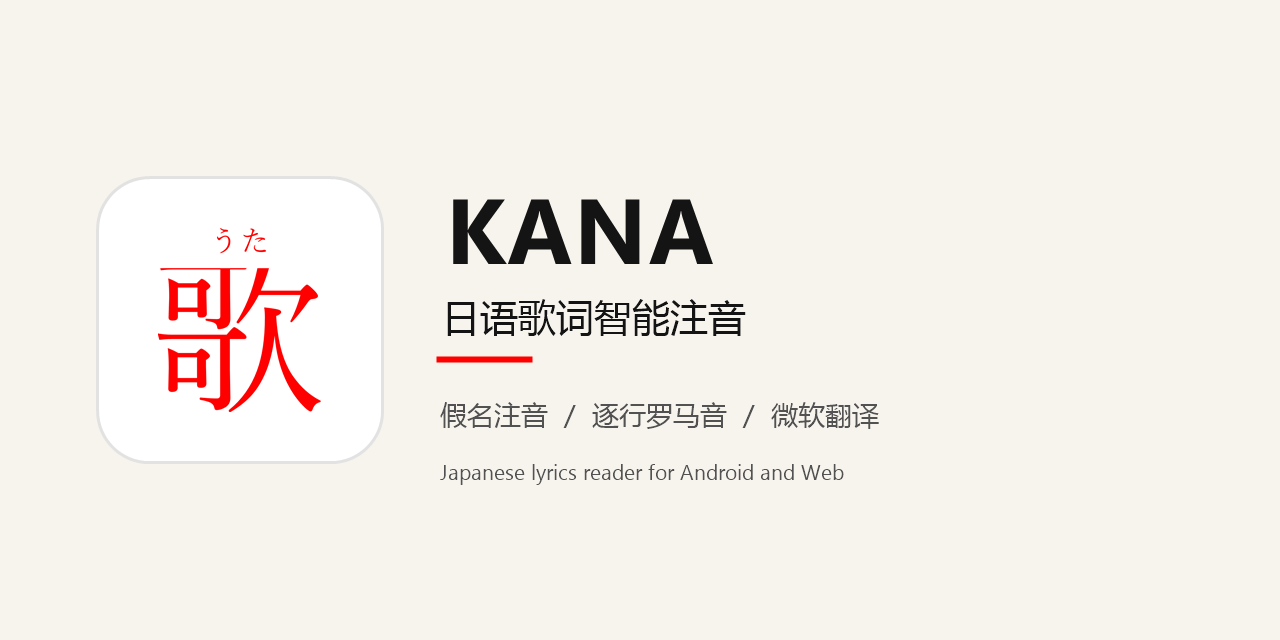
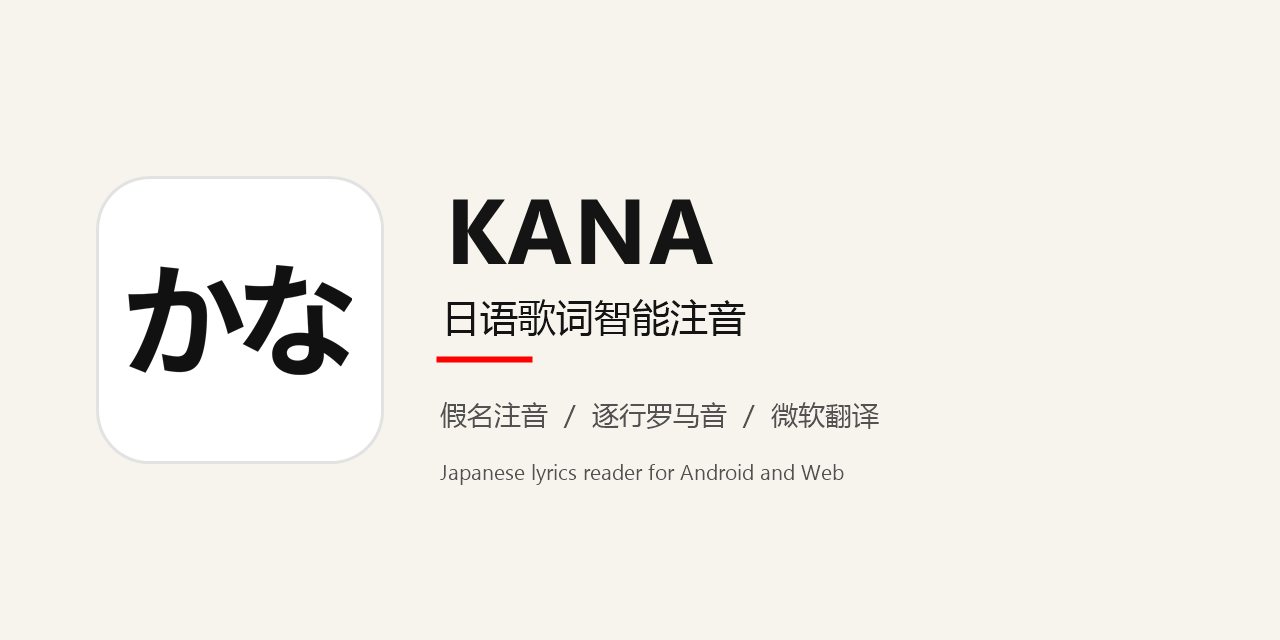
feat: 更新白底黑字かな图标

Changed region(s): [[0.0938, 0.4062, 0.2812, 0.6562], [0.1875, 0.3438, 0.2188, 0.375]]

diff --git a/frontend/components/SiteHeader.tsx b/frontend/components/SiteHeader.tsx
@@ -50,11 +50,8 @@ export default function SiteHeader() {
           aria-label="KANA 首页"
           className="flex shrink-0 items-center gap-2.5"
         >
-          <span className="font-japanese relative grid h-8 w-8 place-items-center rounded-md border border-line bg-canvas text-brand">
-            <span className="absolute top-[2px] text-[6px] leading-none">
-              うた
-            </span>
-            <span className="mt-1.5 text-lg leading-none">歌</span>
+          <span className="grid h-8 w-8 place-items-center rounded-md border border-line bg-canvas text-sm font-bold leading-none tracking-[-0.08em] text-ink">
+            かな
           </span>
           <span className="hidden min-[380px]:block">
             <span className="block text-base font-bold leading-5">KANA</span>
